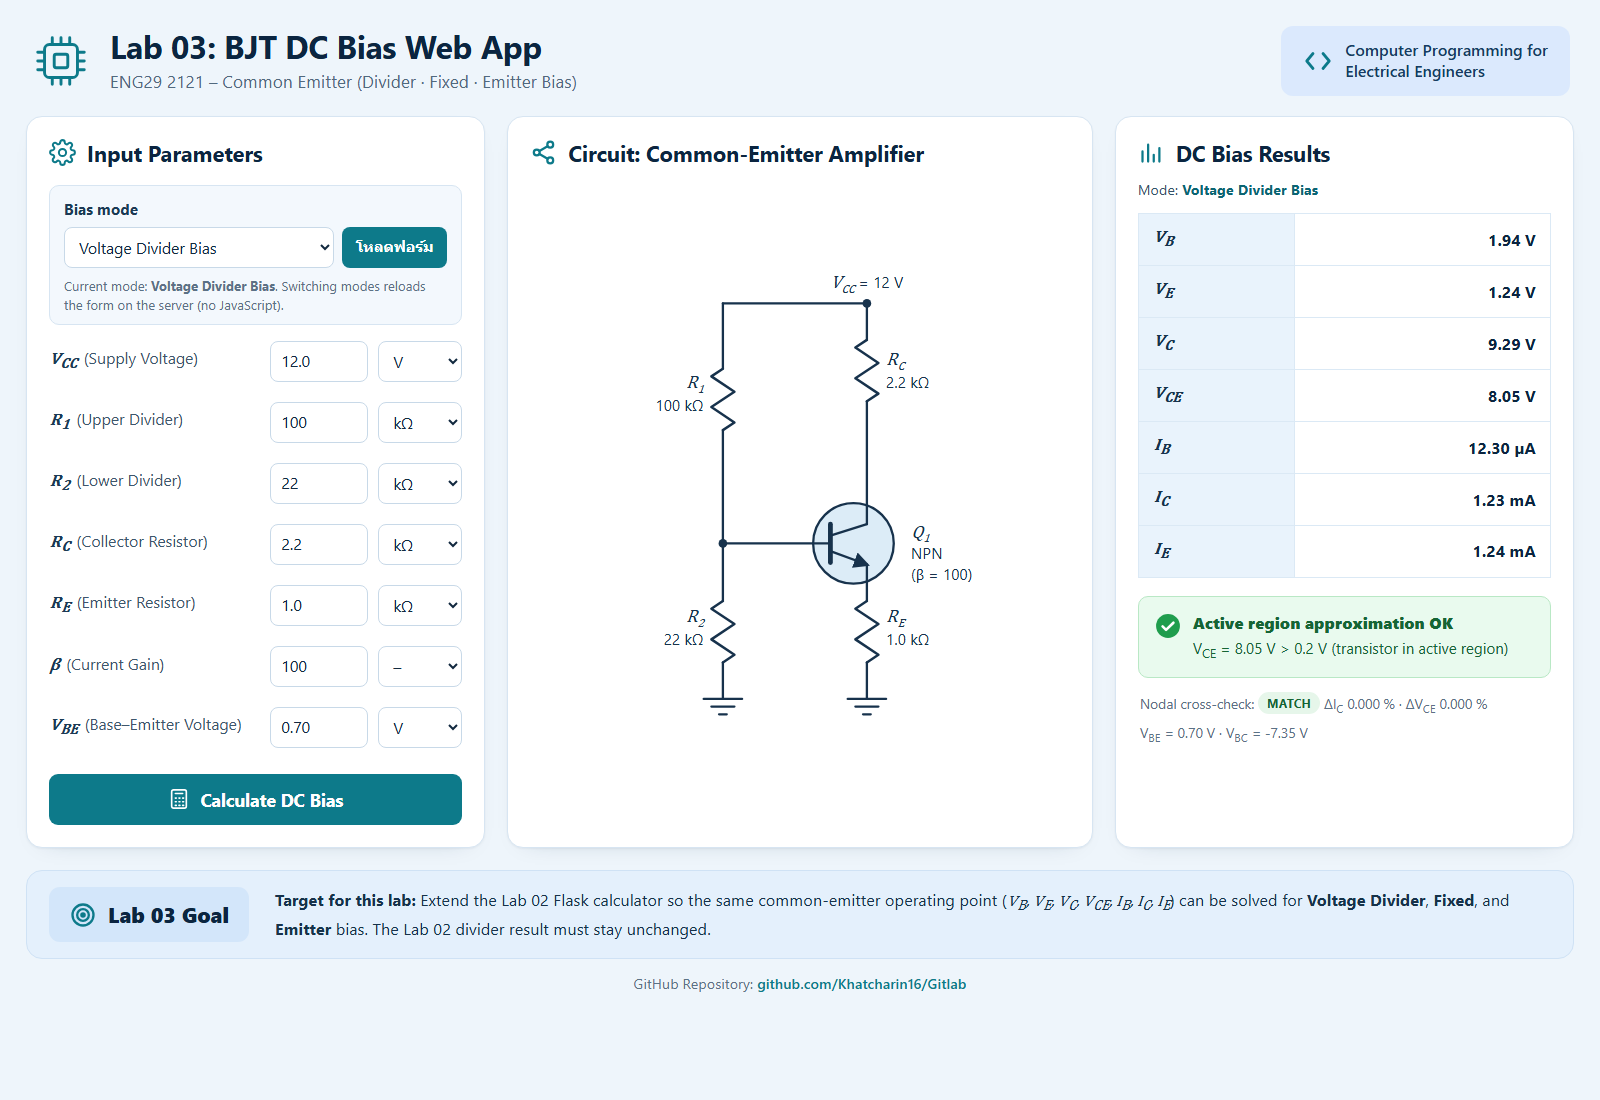
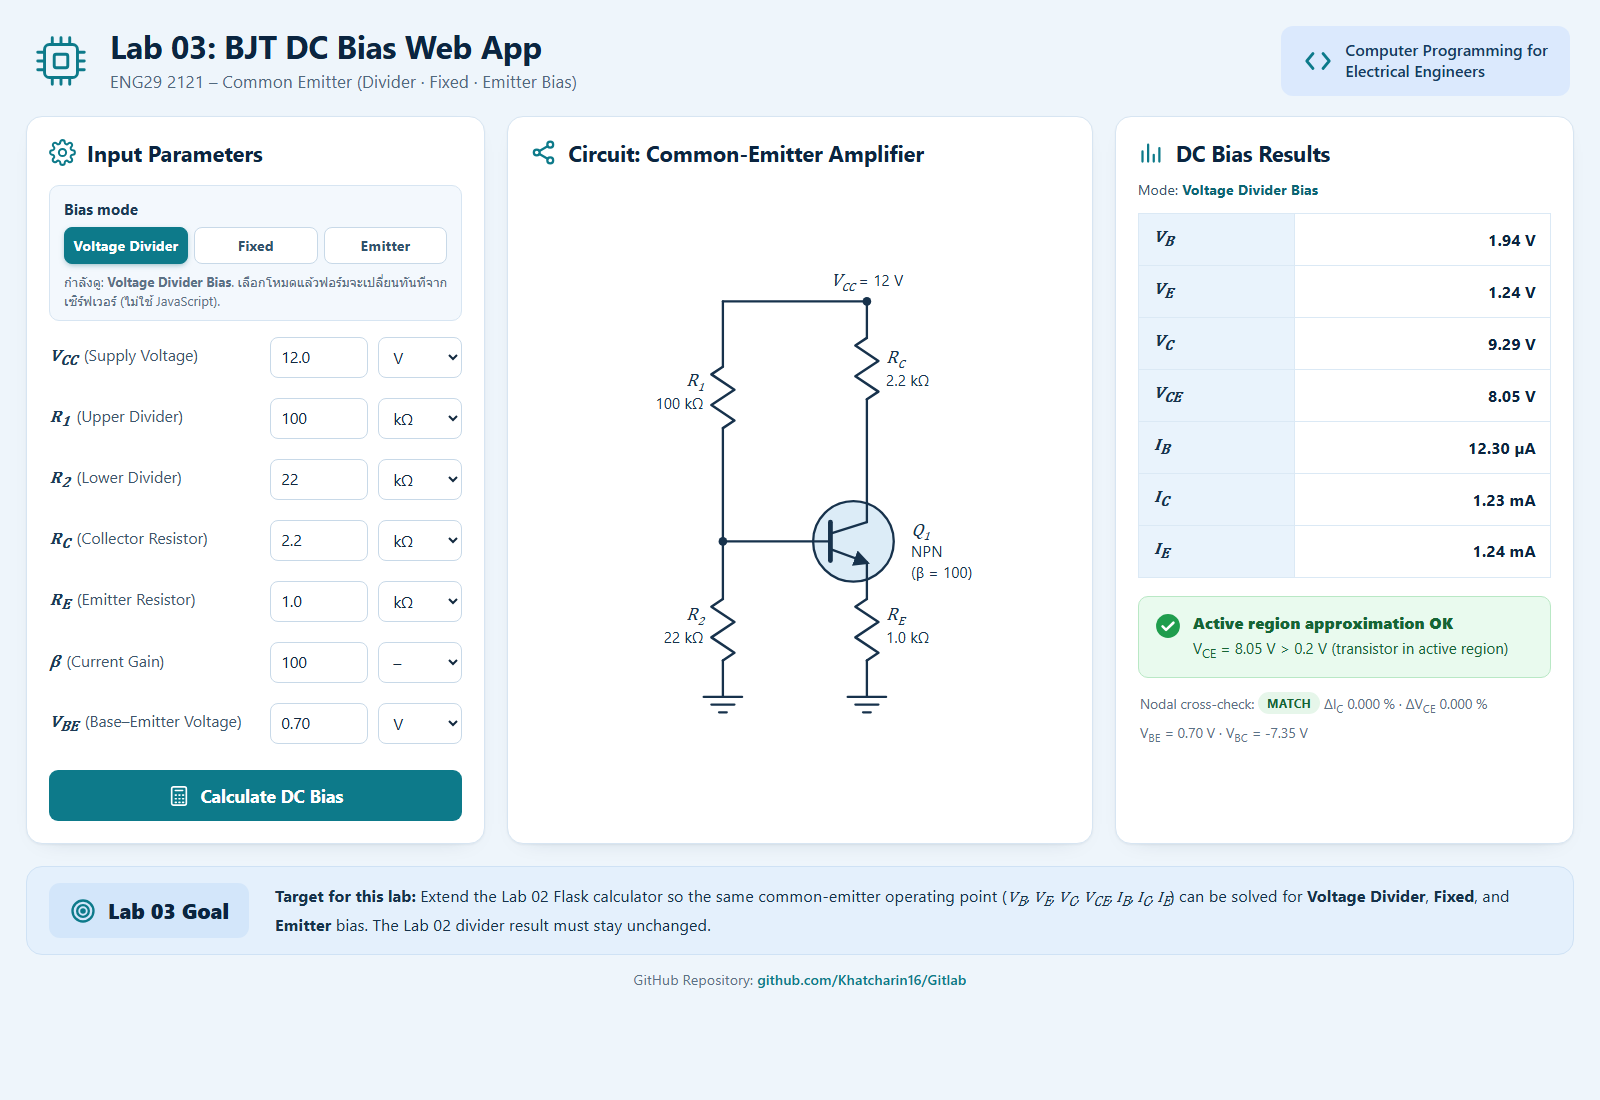
feat(lab03): switch bias modes with tabs

diff --git a/app/templates/index.html b/app/templates/index.html
@@ -64,19 +64,22 @@
         <h2>Input Parameters</h2>
       </div>
 
-      <form class="mode-form" method="get" action="/">
-        <label for="mode">Bias mode</label>
-        <div class="mode-controls">
-          <select id="mode" name="mode">
-            <option value="divider" {% if mode == 'divider' %}selected{% endif %}>Voltage Divider Bias</option>
-            <option value="fixed" {% if mode == 'fixed' %}selected{% endif %}>Fixed Bias</option>
-            <option value="emitter" {% if mode == 'emitter' %}selected{% endif %}>Emitter Bias</option>
-          </select>
-          <button class="btn-mode" type="submit">โหลดฟอร์ม</button>
-        </div>
-        <p class="mode-hint">Current mode: <strong>{{ mode_label }}</strong>.
-          Switching modes reloads the form on the server (no JavaScript).</p>
-      </form>
+      <div class="mode-form">
+        <span class="mode-form-label">Bias mode</span>
+        <nav class="mode-tabs" aria-label="Bias mode">
+          <a class="mode-tab{% if mode == 'divider' %} active{% endif %}"
+             href="/?mode=divider"
+             {% if mode == 'divider' %}aria-current="page"{% endif %}>Voltage Divider</a>
+          <a class="mode-tab{% if mode == 'fixed' %} active{% endif %}"
+             href="/?mode=fixed"
+             {% if mode == 'fixed' %}aria-current="page"{% endif %}>Fixed</a>
+          <a class="mode-tab{% if mode == 'emitter' %} active{% endif %}"
+             href="/?mode=emitter"
+             {% if mode == 'emitter' %}aria-current="page"{% endif %}>Emitter</a>
+        </nav>
+        <p class="mode-hint">กำลังดู: <strong>{{ mode_label }}</strong>.
+          เลือกโหมดแล้วฟอร์มจะเปลี่ยนทันทีจากเซิร์ฟเวอร์ (ไม่ใช้ JavaScript).</p>
+      </div>
 
       <form method="post" action="/">
         <input type="hidden" name="mode" value="{{ mode }}">

diff --git a/app/static/style.css b/app/static/style.css
@@ -166,7 +166,7 @@ body {
   border-radius: 10px;
 }
 
-.mode-form label {
+.mode-form-label {
   display: block;
   font-weight: 700;
   font-size: 0.95rem;
@@ -174,43 +174,43 @@ body {
   margin-bottom: 7px;
 }
 
-.mode-controls {
+.mode-tabs {
   display: grid;
-  grid-template-columns: minmax(0, 1fr) auto;
-  gap: 8px;
+  grid-template-columns: repeat(3, minmax(0, 1fr));
+  gap: 6px;
 }
 
-.mode-controls select {
-  width: 100%;
-  padding: 8px 10px;
-  font: inherit;
-  font-size: 0.98rem;
-  color: #12293f;
-  background: #fff;
+.mode-tab {
+  display: block;
+  padding: 9px 8px;
   border: 1px solid #c8d9e8;
   border-radius: 8px;
-}
-
-.mode-controls select:focus {
-  outline: 2px solid rgba(13, 122, 138, 0.35);
-  border-color: var(--teal);
-}
-
-.btn-mode {
-  padding: 8px 14px;
-  border: 0;
-  border-radius: 8px;
-  background: var(--teal);
-  color: #fff;
-  font: inherit;
-  font-size: 0.94rem;
+  background: #fff;
+  color: #31526c;
+  font-size: 0.9rem;
   font-weight: 700;
-  cursor: pointer;
-  white-space: nowrap;
+  text-align: center;
+  text-decoration: none;
+  line-height: 1.2;
+  transition: background 0.15s ease, border-color 0.15s ease, color 0.15s ease;
 }
 
-.btn-mode:hover {
-  background: var(--teal-dark);
+.mode-tab:hover {
+  background: #e7f2fb;
+  border-color: #a9c6dc;
+  color: var(--navy-strong);
+}
+
+.mode-tab:focus-visible {
+  outline: 2px solid rgba(13, 122, 138, 0.45);
+  outline-offset: 1px;
+}
+
+.mode-tab.active {
+  background: var(--teal);
+  border-color: var(--teal);
+  color: #fff;
+  box-shadow: 0 2px 6px -2px rgba(10, 101, 115, 0.55);
 }
 
 .mode-hint {

diff --git a/docs/validation.md b/docs/validation.md
@@ -2,7 +2,7 @@
 
 Date: 2026-11-17  
 App: <http://127.0.0.1:5000> (Flask development server, Python 3.14.2)  
-Method: **OpenCode built-in Browser** (navigate, snapshot, select, fill, click)  
+Method: **OpenCode built-in Browser** (navigate, snapshot, click mode tab, fill, click)  
 Playwright MCP: **NOT RUN** — it is not configured in this repository. The lab
 sheet allows OpenCode Browser or manual checking as the fallback.
 
@@ -45,3 +45,6 @@ text after submitting the form.
   solver.
 - A5 is checked in the browser with the visible Fixed form; the required RB
   field stays required in HTML and the server also rejects RB ≤ 0.
+- Mode switching uses three server-side tabs (Voltage Divider / Fixed /
+  Emitter). Clicking a tab reloads the form immediately; there is no separate
+  “load form” button and no JavaScript.

diff --git a/README.md b/README.md
@@ -28,8 +28,9 @@ The form also supports Ω / kΩ / MΩ and V / mV units.
 
 ## Behaviour
 
-- The mode is chosen with a server-side GET form (`/?mode=divider`,
-  `/?mode=fixed`, `/?mode=emitter`). No JavaScript is used.
+- Mode tabs link to `/?mode=divider`, `/?mode=fixed`, or `/?mode=emitter`.
+  Clicking a tab immediately re-renders the form and schematic on the server.
+  No JavaScript is used, and there is no separate "load form" button.
 - Validation only checks the fields used by the selected mode. For example,
   an invalid RB is ignored in Divider mode, and RE is not required in Fixed mode.
 - An unknown mode is an error and never falls back to Divider.
